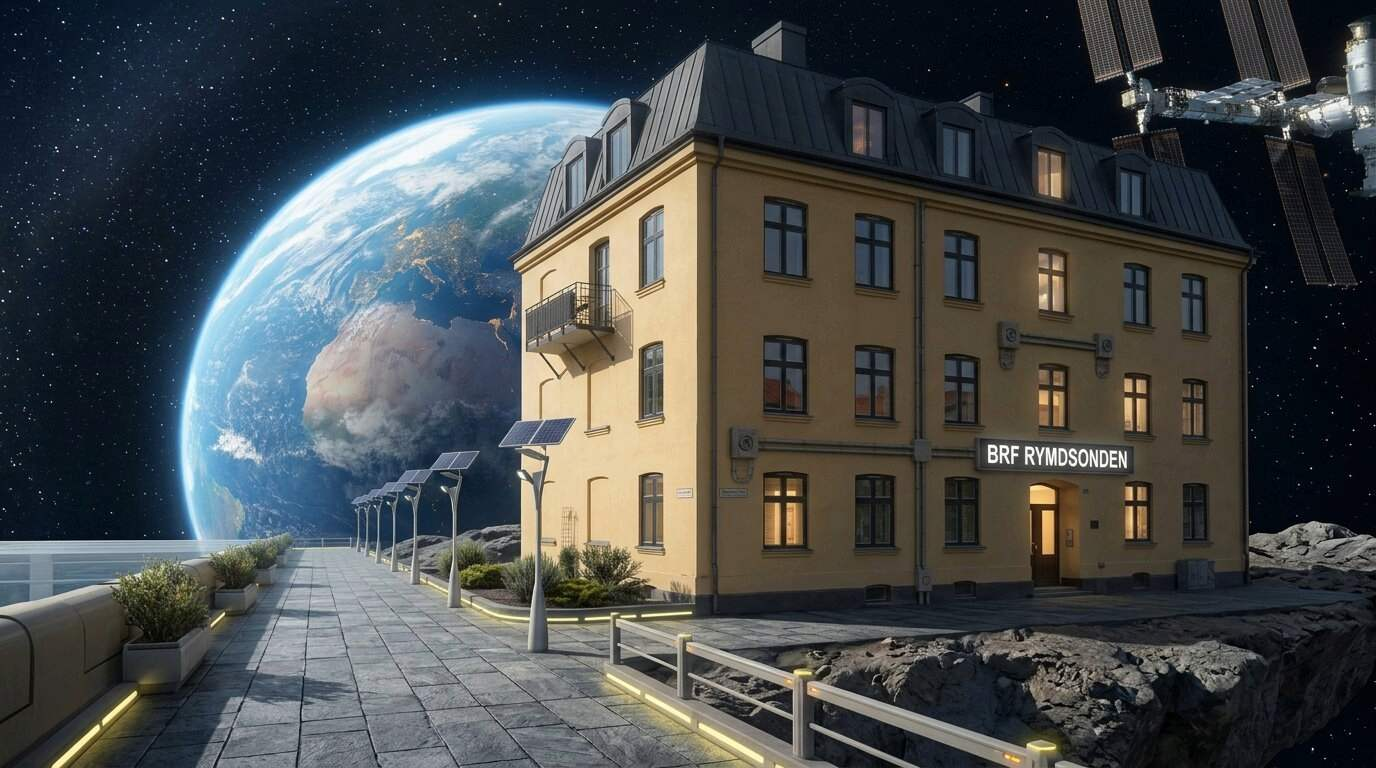
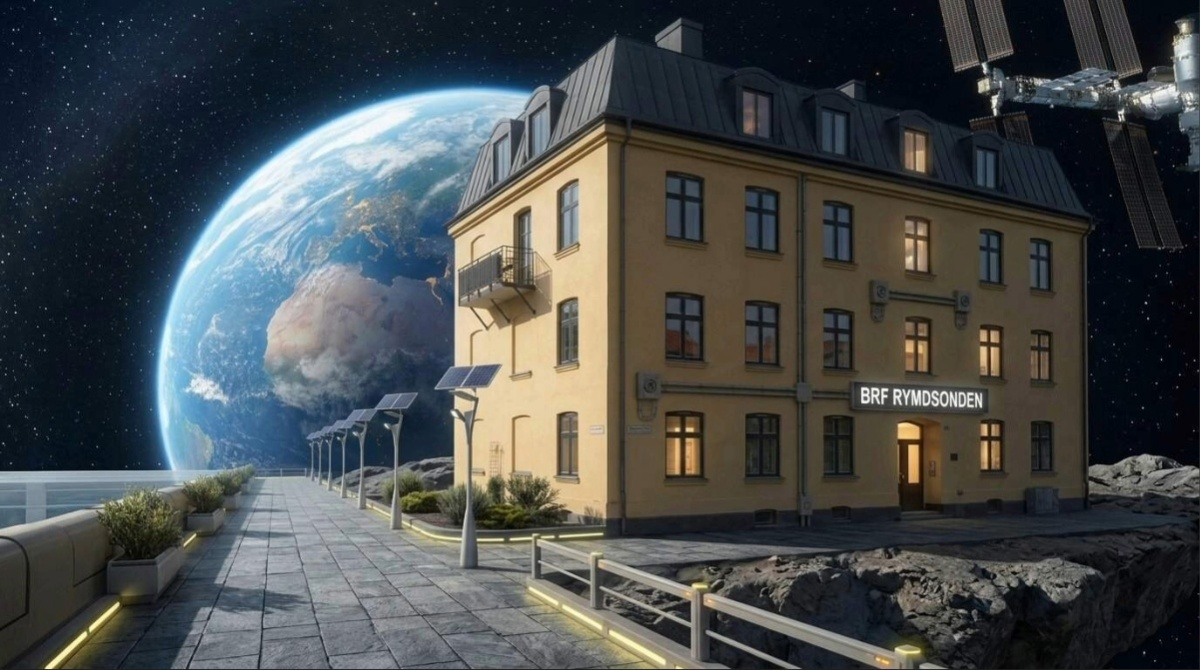
Added comments about pictures in /IMG

diff --git a/rapport.html b/rapport.html
@@ -82,7 +82,7 @@
                 <li>Bostadsrättsföreningens kontaktformulär.</li>
                 <li>Bostadsrättsföreningens trivselregler.</li>
                 <li>Bostadsrättsföreningens stadgar.</li>
-                <li>Minst 2 bilder på bostadsrättsföreningen.</li>
+                <li>Minst 1 bild på bostadsrättsföreningen.</li>
                 <li>Bildexempel på 2 lägenheter.</li>
                 <li>En bild på en karta som visar föreningens läge.</li>
                 <li>Kontaktuppgifter till jour vid akuta skador (till exempel vatten och el).</li>
@@ -112,9 +112,10 @@
             <!-- Beskriv i en punktlista vilka redigeringar du gjort av bilderna i ett bildredigeringsprogram, för att anpassa dem till hur du använder dem på din webbplats. -->
             <p>Bilderna har redigerats i ett bildredigeringsprogram, där följande gjorts:</p>
             <ul>
-                <li>...</li>
-                <li>...</li>
-                <li>...</li>
+                <li>apartment-1: Genererad via Adobe Firefly, storleksändrad till 600 x 327px i Adobe Firefly och konverterad från .png till .jpg och sedan komprimerad från 250kB till under 150kB</li>
+                <li>apartment-2: Genererad via Adobe Firefly, storleksändrad till 600 x 327px i Adobe Firefly och konverterad från .png till .jpg och sedan komprimerad från 250kB till under 150kB</li>
+                <li>brf-rymdsonden: Genererad via Adobe Firefly, storleksändrad till 1200 x 670px i Adobe Firefly och konverterad från .png till .jpg och sedan komprimerad från 600kB till under 300kB</li>
+                <li>map-pin: Genererad via Adobe Firefly, storleksändrad till 550 x 477px i Adobe Firefly och konverterad från .png till .jpg och sedan komprimerad från 250kB till under 100kB</li>
             </ul>
             <!-- För VG anger du också var på din webbplats du använt dig av picture-elementet. Har du använt det på flera ställen, duplicerar du textstycket. -->
             <!-- Om du inte gjort VG-kravet, tar du bort nedanstående stycke. -->
